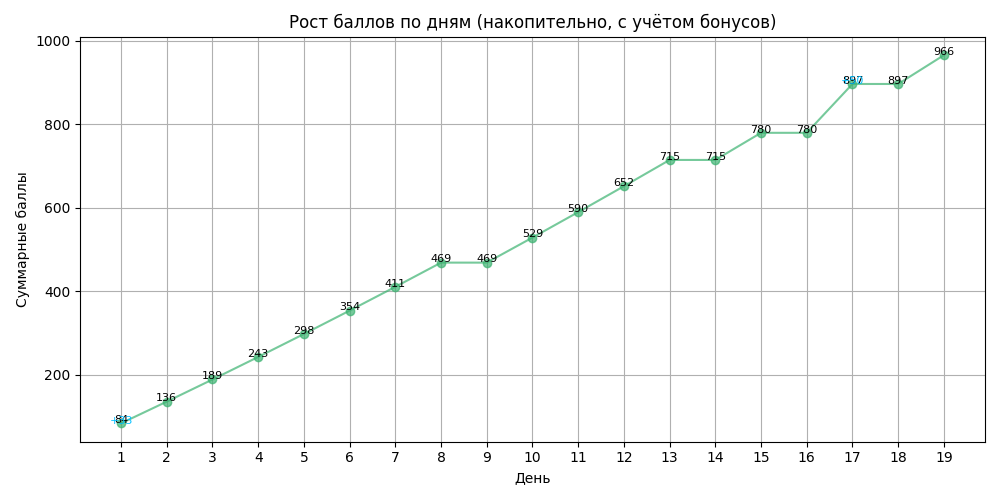
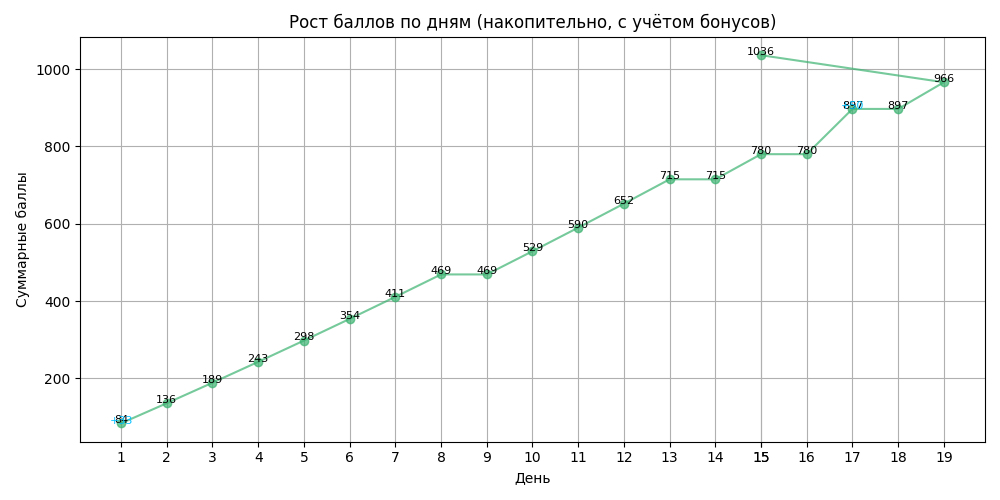
boost challenge day20

diff --git a/BoostChallenge/14July/solution.py b/BoostChallenge/14July/solution.py
@@ -1,0 +1,59 @@
+import sys
+import threading
+from math import gcd
+from collections import Counter
+
+def calculate_answer(n: int, k: int, a: list[int]) -> int:
+    b = [x // k for x in a if x % k == 0]
+    if len(b) < 2:
+        return 0
+
+    max_b = max(b)
+    cnt = [0] * (max_b + 2)
+    for x in b:
+        cnt[x] += 1
+
+    freq = [0] * (max_b + 2)
+    for d in range(1, max_b + 1):
+        for mult in range(d, max_b + 1, d):
+            freq[d] += cnt[mult]
+
+    pairs = [0] * (max_b + 2)
+    for d in range(max_b, 0, -1):
+        pairs[d] = freq[d] * (freq[d] - 1) // 2
+        mult = 2 * d
+        while mult <= max_b:
+            pairs[d] -= pairs[mult]
+            mult += d
+
+    return pairs[1]
+
+class FastInput:
+    def __init__(self):
+        self.stdin = sys.stdin
+
+    def read_line(self):
+        return sys.stdin.readline().strip()
+
+    def read_tokens(self):
+        return self.read_line().split()
+
+    def read_int(self):
+        return int(self.read_line())
+
+    def read_ints(self):
+        return map(int, self.read_tokens())
+
+def solution():
+    input = FastInput()
+    t = input.read_int()
+    answers = [None] * t
+    for test in range(t):
+        n, k = input.read_ints()
+        a = list(input.read_ints())
+        answers[test] = calculate_answer(n, k, a)
+    print('\n'.join(map(str, answers)))
+
+if __name__ == "__main__":
+    threading.Thread(target=solution).start()
+
